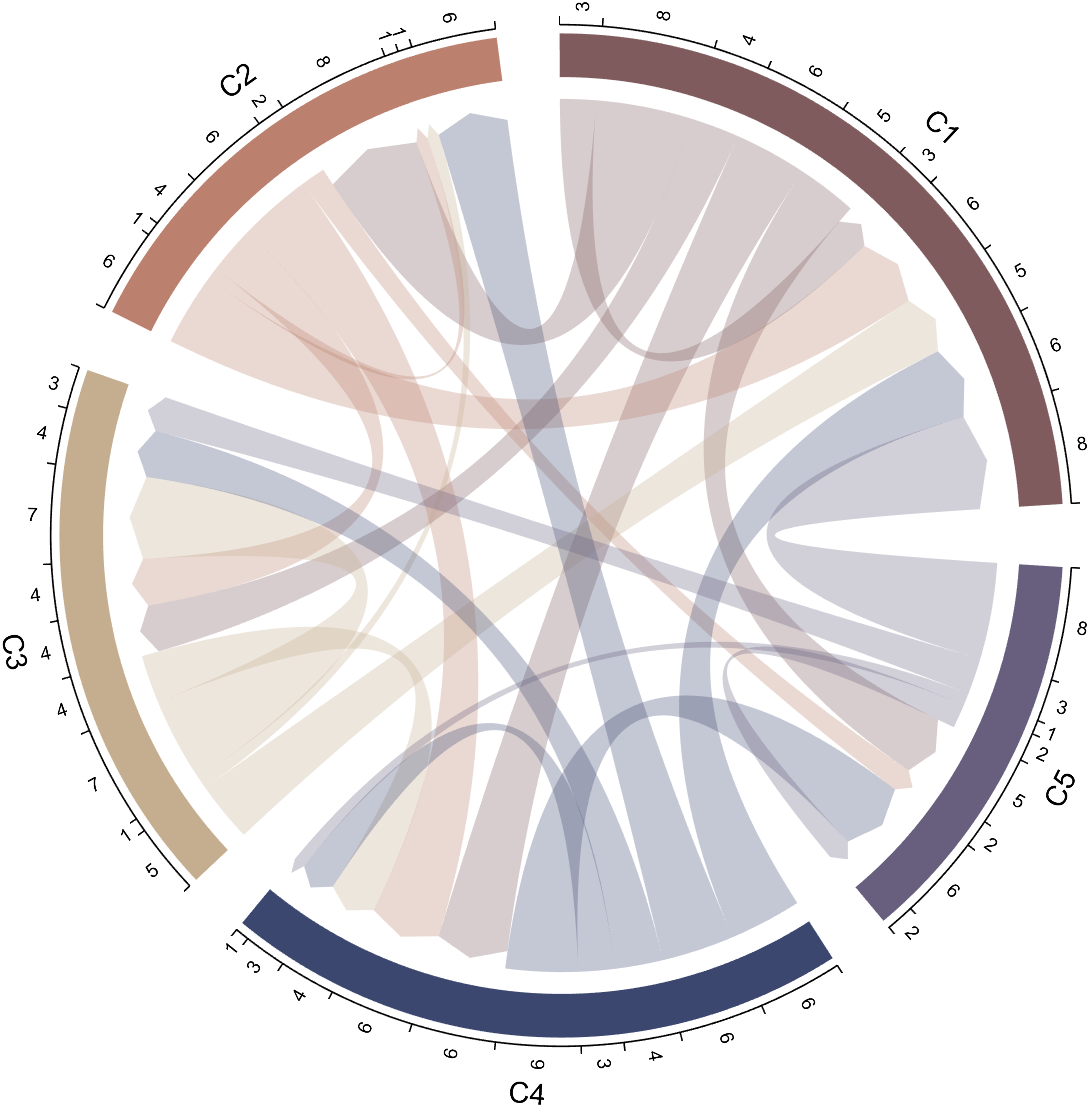
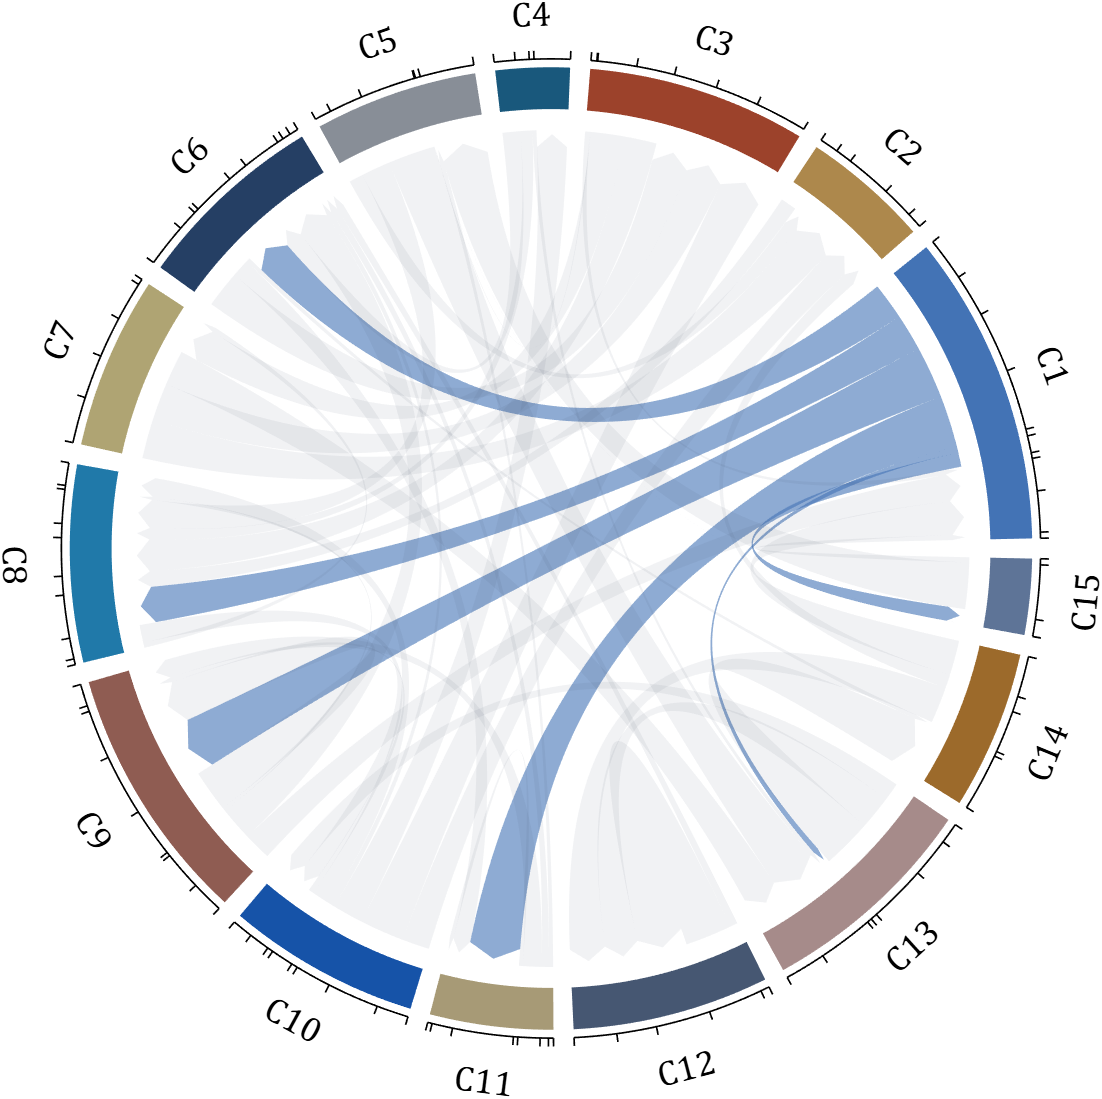
add & push by Matlab

diff --git a/Chord_Diagram_Plotting_Challenge/biChordChart.m b/Chord_Diagram_Plotting_Challenge/biChordChart.m
@@ -137,7 +137,12 @@ classdef biChordChart < handle
 %     setSquare(n, ___)      | Set the properties for the n-th square
 %   + The setSubSquareS method replaces setEachSquareF_Prop.
 %   + The setSubSquareT method replaces setEachSquareT_Prop.
-
+% -------------------------------------------------------------------------
+% # version 7.1.0
+%   + Added setChordCData method to set the 'CData' property of each chord patch (设置弦的 CData 属性) 
+%   + Added setSquareCData method to set the 'CData' property of each square (设置方块的 CData 属性) 
+%   + Added setSquareColor, setChordColorBySquareS, setChordColorBySquareT methods
+%   + For methods: Added support for logical matrix inputs.
 
     properties
         ax                                                     % Axes handle (坐标区句柄)

diff --git a/biChordChart/biChordChart.m b/biChordChart/biChordChart.m
@@ -137,7 +137,12 @@ classdef biChordChart < handle
 %     setSquare(n, ___)      | Set the properties for the n-th square
 %   + The setSubSquareS method replaces setEachSquareF_Prop.
 %   + The setSubSquareT method replaces setEachSquareT_Prop.
-
+% -------------------------------------------------------------------------
+% # version 7.1.0
+%   + Added setChordCData method to set the 'CData' property of each chord patch (设置弦的 CData 属性) 
+%   + Added setSquareCData method to set the 'CData' property of each square (设置方块的 CData 属性) 
+%   + Added setSquareColor, setChordColorBySquareS, setChordColorBySquareT methods
+%   + For methods: Added support for logical matrix inputs.
 
     properties
         ax                                                     % Axes handle (坐标区句柄)

diff --git a/biChordChart/README.md b/biChordChart/README.md
@@ -455,6 +455,29 @@ BCC.tickState('on')
 BCC.setFont('FontName','Cambria', 'FontSize',17)
 ```
 ![](gallery/demo2_3.png)
+### 高亮以某节点为源的弦 (Highlight chords originating from a specific node)
+```matlab
+dataMat = rand([15, 15]);
+dataMat(dataMat > .2) = 0;
+CList = [ 67,115,181; 173,136, 76; 156, 66, 43;  25, 88,124; 136,142,151; 
+    37, 63,100; 175,164,115;  32,121,169; 143, 92, 82;  22, 83,168; 
+    167,154,118;  70, 87,114; 166,139,138; 156,106, 43;  94,116,151]./255;
+
+figure('Units','normalized', 'Position',[.02,.05,.6,.85])
+BCC = biChordChart(dataMat, 'Arrow','on', 'CData',CList);
+BCC = BCC.draw();
+
+BCC.tickState('on')
+BCC.setFont('FontName','Cambria', 'FontSize',17, 'Color',[0,0,0])
+
+% Modify chord color (修改弦颜色)
+BCC.setChord('FaceColor',[ 54, 69, 92]./255 ,'FaceAlpha',.07)
+% Highlight chords originating from a specific node (高亮以某节点为源的弦)
+[~, N] = max(sum(dataMat > 0, 2));
+BCC.setChord(N, [], 'FaceColor',CList(N,:), 'FaceAlpha',.6)
+```
+![](gallery/demo12.png)
+![](gallery/demo12_1.png)
 ___
 ## Check out the various demos for more detailed usage instructions.
 # star me please!
